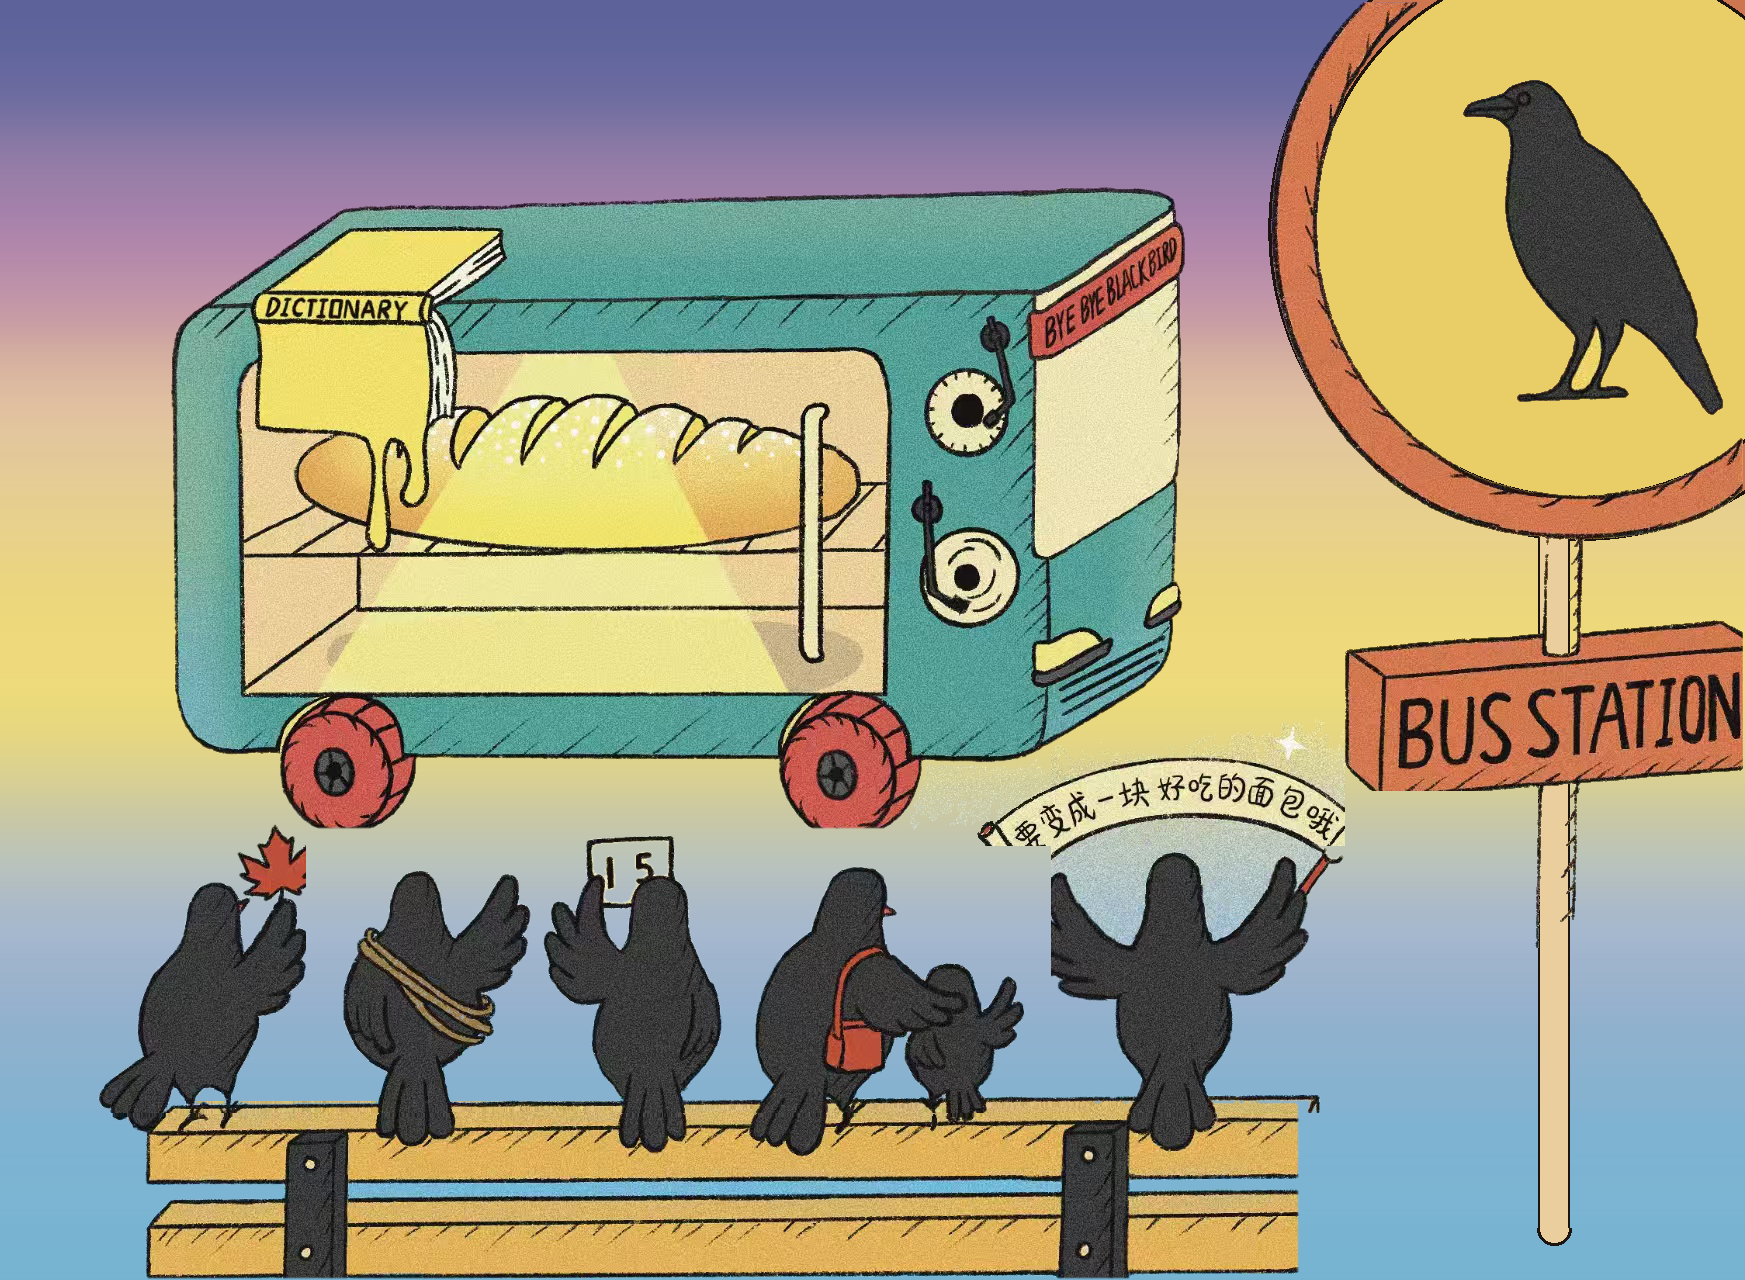
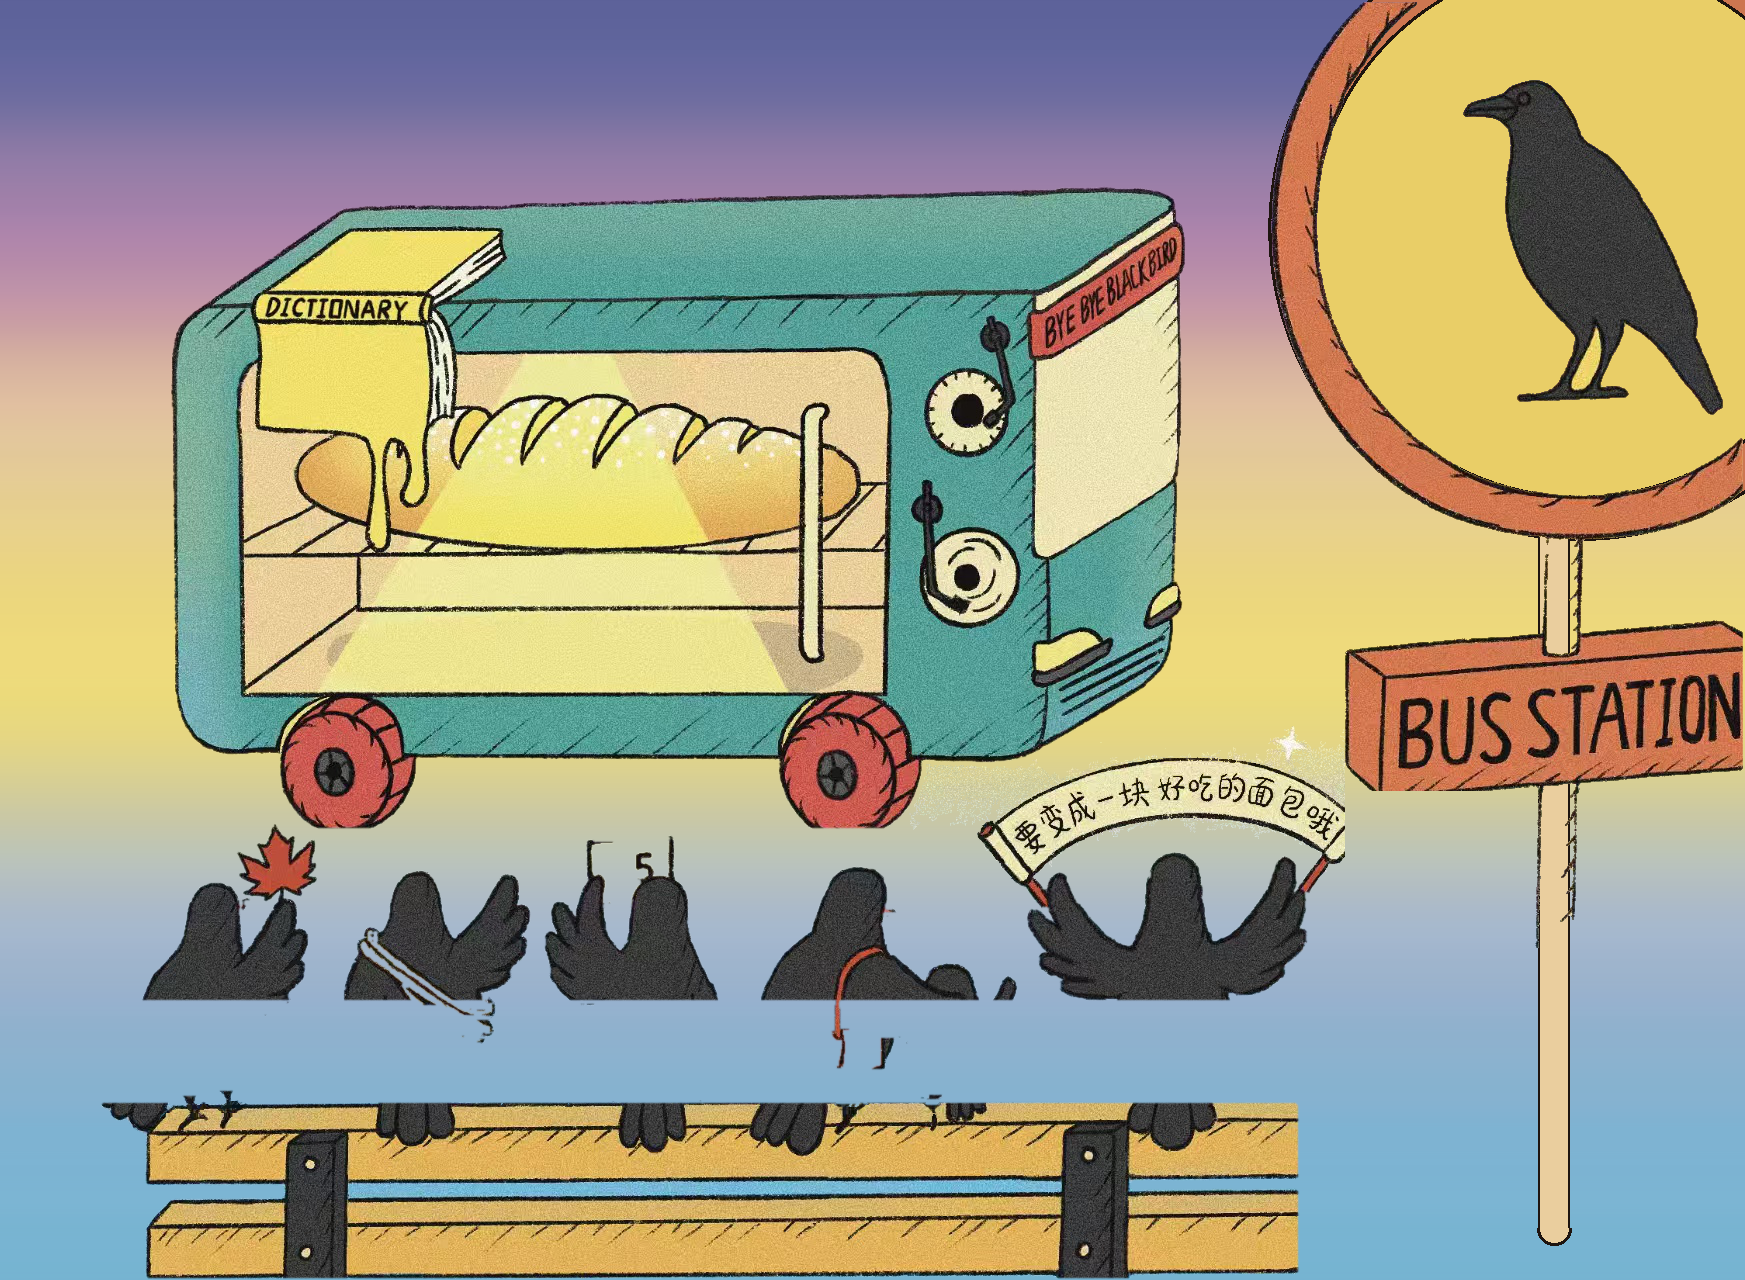
v22: bird sprites by ink components (no bench line, no split), lazy-load three/MindAR for instant button response

diff --git a/index.html b/index.html
@@ -47,7 +47,7 @@
   <p>2026 伊坂幸太郎月历 · 隐藏彩蛋</p>
   <button id="arBtn">开始 AR · 对准月历插画</button>
   <button id="vrBtn">进入 VR · 插画动起来</button>
-  <p style="font-size:11px;opacity:.4;margin-top:10px">v21</p>
+  <p style="font-size:11px;opacity:.4;margin-top:10px">v22</p>
 </div>
 
 <div id="container"></div>
@@ -70,10 +70,20 @@
 </script>
 
 <script type="module">
-import * as THREE from 'three';
-import { MindARThree } from 'mindar-image-three';
-
-THREE.ColorManagement.legacyMode = false;
+/* 重依赖懒加载：页面秒开、按钮秒响应 */
+let THREE = null;
+let MindARThree = null;
+async function ensureThree() {
+  if (!THREE) {
+    THREE = await import('three');
+    THREE.ColorManagement.legacyMode = false;
+  }
+  return THREE;
+}
+async function ensureMindAR() {
+  await ensureThree();
+  if (!MindARThree) MindARThree = (await import('mindar-image-three')).MindARThree;
+}
 
 const statusEl = document.getElementById('status');
 const hintEl   = document.getElementById('scanHint');
@@ -154,6 +164,7 @@ async function loadArtAssets(onProgress) {
   if (ART_META) return;
   if (!ART_LOADING) {
     ART_LOADING = (async () => {
+      await ensureThree();
       const meta = await (await fetch('./assets/sprites/meta.json')).json();
       const loader = new THREE.TextureLoader();
       const names = ['bus', 'bird1', 'bird2', 'bird3', 'bird4', 'bird6', 'sign', 'bench', 'wheel0', 'wheel1'];
@@ -389,9 +400,21 @@ function createArtScene(meta, tex, opts = {}) {
 /* ══════════ AR 模式 ══════════ */
 document.getElementById('arBtn').addEventListener('click', () => { ensureAudio(); startAR(); });
 
+let arBusy = false;
 async function startAR() {
+  if (arBusy) return;
+  arBusy = true;
   splash.style.display = 'none';
   statusEl.classList.remove('hidden');
+  statusEl.textContent = '正在加载识别引擎…（首次较慢，请稍候）';
+  try {
+    await ensureMindAR();
+  } catch (e) {
+    arBusy = false;
+    statusEl.textContent = '识别引擎加载失败：' + (e && e.message || e) + '，请检查网络后重试';
+    setTimeout(backToSplash, 3500);
+    return;
+  }
 
   statusEl.textContent = '请求摄像头权限…（请在弹窗中允许）';
   const permHint = setTimeout(() => {
@@ -408,6 +431,7 @@ async function startAR() {
       ? '摄像头权限被拒绝：请刷新页面并在弹窗中点「允许」'
       : '无法访问摄像头：' + (e && e.message || e.name || '未知错误');
     setTimeout(backToSplash, 3000);
+    arBusy = false;
     return;
   }
 
@@ -417,6 +441,7 @@ async function startAR() {
   } catch (e) {
     statusEl.textContent = '插画素材加载失败：' + (e && e.message || e);
     setTimeout(backToSplash, 3500);
+    arBusy = false;
     return;
   }
 
@@ -438,6 +463,7 @@ async function startAR() {
   } catch (e) {
     statusEl.textContent = '识别数据下载失败（' + (e && e.message || '网络错误') + '），请检查网络后重试';
     setTimeout(backToSplash, 3500);
+    arBusy = false;
     return;
   }
 
@@ -498,6 +524,7 @@ async function startAR() {
     if (camStream) camStream.getTracks().forEach(t => t.stop());
     statusEl.textContent = '启动失败：' + (e && e.message || '未知错误') + '，请刷新重试';
     setTimeout(backToSplash, 4000);
+    arBusy = false;
     return;
   }
   clearInterval(tickInit);
@@ -530,6 +557,7 @@ document.getElementById('vrExit').addEventListener('click', () => {
     vrState.renderer.domElement.parentNode.removeChild(vrState.renderer.domElement);
   }
   vrState = null;
+  vrBusy = false;
   backToSplash();
 });
 
@@ -554,9 +582,21 @@ document.getElementById('vrExit').addEventListener('click', () => {
   });
 }
 
+let vrBusy = false;
 async function enterVR(auto = false) {
+  if (vrBusy) return;
+  vrBusy = true;
   splash.style.display = 'none';
   vrRoot.style.display = 'block';
+  statusEl.classList.remove('hidden');
+  statusEl.textContent = '正在准备场景…';
+  try {
+    await ensureThree();
+  } catch (e) {
+    vrBusy = false;
+    showErr('加载失败：' + (e && e.message || e));
+    return;
+  }
   vrActive = true;
   yawT = 0; pitchT = 0; gyroBase = null; gyroOff = 0;
   lastInteract = performance.now();
@@ -573,6 +613,7 @@ async function enterVR(auto = false) {
   try {
     await loadArtAssets();
   } catch (e) {
+    vrBusy = false;
     showErr('插画素材加载失败：' + (e && e.message || e));
     return;
   }
@@ -608,7 +649,7 @@ async function enterVR(auto = false) {
   art.startDriveIn(0.9);
 
   vrState = { renderer, scene, camera };
-  window.__dbg = { scene, art };
+  statusEl.classList.add('hidden');
 
   const clock = new THREE.Clock();
   let yaw = 0, pitch = 0;
@@ -638,8 +679,8 @@ async function enterVR(auto = false) {
   })();
 }
 
-/* 页面打开即预加载插画素材（之后进入 AR/VR 秒开） */
-loadArtAssets().catch(() => {});
+/* 空闲时预加载（不阻塞按钮响应） */
+setTimeout(() => { ensureThree().then(() => loadArtAssets()).catch(() => {}); }, 500);
 
 if (new URLSearchParams(location.search).get('mode') === 'vr') {
   enterVR(true);

diff --git a/tools/extract.py b/tools/extract.py
@@ -158,30 +158,98 @@ for name, (x0, y0, x1, y1, seeds, mode) in CROPS.items():
     checker.save(os.path.join(DBG, f"{name}_check.png"))
     Image.fromarray((a * 255).astype(np.uint8)).save(os.path.join(DBG, f"alpha_{name}.png"))
 
-# ── 鸟贴片去重：按列归属（每个横向位置只归水平最近的鸟）──
-CENTERS = {"bird1": 190, "bird2": 420, "bird3": 650, "bird4": 940, "bird6": 1160}
-names_b = list(CENTERS.keys())
-col_arr = np.arange(W)
-owner = np.zeros(W, int)
-best = np.full(W, 1e9)
-for i, nm in enumerate(names_b):
-    d = np.abs(col_arr - CENTERS[nm])
-    m = d < best
-    owner[m] = i; best[m] = d[m]
-for i, name in enumerate(names_b):
+# ── 鸟类贴片：全局墨迹连通块按质心就近归属（身体/脚/道具自动分组）──
+ink_clean = ink.copy()
+for ry in range(1000, min(H, 1140)):
+    idx_c = np.nonzero(ink_clean[ry])[0]
+    if len(idx_c):
+        runs = np.split(idx_c, np.nonzero(np.diff(idx_c) > 1)[0] + 1)
+        if max(len(r) for r in runs) > 120:          # 长椅横线：清除
+            ink_clean[ry, :] = False
+lab_i, _n_i = ndimage.label(ink_clean | red)
+BIRD_CENTERS = {"bird1": 229, "bird2": 437, "bird3": 631, "bird4": 890, "bird6": 1170}
+comps_by_bird = {k: [] for k in BIRD_CENTERS}
+sl_objs = ndimage.find_objects(lab_i)
+objs_ = sl_objs
+for i in range(1, _n_i + 1):
+    sl = sl_objs[i - 1]
+    if sl is None:
+        continue
+    area = int((lab_i[sl] == i).sum())
+    if area < 300:
+        continue
+    y0_, y1_ = sl[0].start, sl[0].stop
+    x0_, x1_ = sl[1].start, sl[1].stop
+    cy_, cx_ = (y0_ + y1_) / 2, (x0_ + x1_) / 2
+    if cy_ > 1150 or cy_ < 730:                 # 长椅 / 巴士等
+        continue
+    if not (60 <= cx_ <= 1380):
+        continue
+    target = min(BIRD_CENTERS, key=lambda nm: abs(cx_ - BIRD_CENTERS[nm]))
+    comps_by_bird[target].append(i)
+def run_lengths(mask, axis):
+    L = np.zeros(mask.shape, np.int32)
+    if axis == 1:
+        for y in range(mask.shape[0]):
+            idx_r = np.nonzero(mask[y])[0]
+            if len(idx_r) == 0:
+                continue
+            for r in np.split(idx_r, np.nonzero(np.diff(idx_r) > 1)[0] + 1):
+                L[y, r] = len(r)
+    else:
+        for x in range(mask.shape[1]):
+            idx_c2 = np.nonzero(mask[:, x])[0]
+            if len(idx_c2) == 0:
+                continue
+            for r in np.split(idx_c2, np.nonzero(np.diff(idx_c2) > 1)[0] + 1):
+                L[r, x] = len(r)
+    return L
+
+h_len = run_lengths(ink, 1)
+v_len = run_lengths(ink, 0)
+hlines = (h_len >= 40) & (v_len <= 8)      # 细长横线（长椅边），鸟身/脚不受影响
+hlines = ndimage.binary_dilation(hlines, iterations=1)
+for name, ids in comps_by_bird.items():
+    mask = np.zeros((H, W), bool)
+    body, bb = None, None
+    if ids:
+        areas = {i: int((lab_i == objs_[i - 1] == 0).sum() if False else (lab_i[objs_[i - 1]] == i).sum()) for i in ids}
+        body = max(areas, key=areas.get)
+        bb = objs_[body - 1]
+    for i in ids:
+        sl = objs_[i - 1]
+        w_ = sl[1].stop - sl[1].start
+        h_ = sl[0].stop - sl[0].start
+        cy_ = (sl[0].start + sl[0].stop) / 2
+        if body is not None and i == body:
+            mask |= (lab_i == i)
+            continue
+        if w_ > 60 and h_ < 20:          # 扁平宽条（长椅边/阴影条）
+            continue
+        density = (lab_i[sl] == i).sum() / float(w_ * h_)
+        if density < 0.18:               # 稀疏噪点块
+            continue
+        if cy_ < bb[0].stop + 5:         # 身体上方的道具（卡/叶/包/横幅）
+            mask |= (lab_i == i)
+    # 脚：身体下方的细竖笔画窗口
+    if body is not None:
+        rows0, rows1 = bb[0].stop - 8, min(H, slat_top + 10)
+        ccx = (bb[1].start + bb[1].stop) // 2
+        win = np.zeros_like(mask)
+        win[max(0, rows0):rows1, max(0, ccx - 90):min(W, ccx + 90)] = True
+        mask |= (ink & win & (h_len <= 14))
+    mask &= ~hlines
+    mask = ndimage.binary_fill_holes(mask)
+    x0, y0, x1, y1 = rects[name]
+    m_c = mask[y0:y1, x0:x1]
     fp = os.path.join(OUT, f"{name}.png")
     im = np.asarray(Image.open(fp).convert("RGBA")).copy()
-    x0, y0, x1, y1 = rects[name]
-    a = im[:, :, 3].astype(np.float32) / 255
-    own_cols = (owner[x0:x1] == i)[None, :]
-    a = a * own_cols
-    im[:, :, 3] = (np.clip(a, 0, 1) * 255).astype(np.uint8)
+    im[:, :, 3] = (feather(m_c) * 255).astype(np.uint8)
     Image.fromarray(im, "RGBA").save(fp)
-    alphas[name] = a
+    alphas[name] = feather(m_c)
 
-# ── 横幅整体归 bird6：横幅带区域从 bird4 移除、并入 bird6 ──
 yy_z, xx_z = np.mgrid[0:H, 0:W]
-zone = (yy_z >= 660) & (yy_z <= 845) & (xx_z >= 845) & (xx_z <= 1345)
+zone = (yy_z >= 640) & (yy_z <= 880) & (xx_z >= 845) & (xx_z <= 1345)
 cream2 = (R > 195) & (G > 185) & (B > 148) & (B < R + 8)
 bus_a = np.zeros((H, W), bool)
 _bus = np.asarray(Image.open(os.path.join(OUT, "bus.png")).convert("RGBA"))[:, :, 3] > 10
